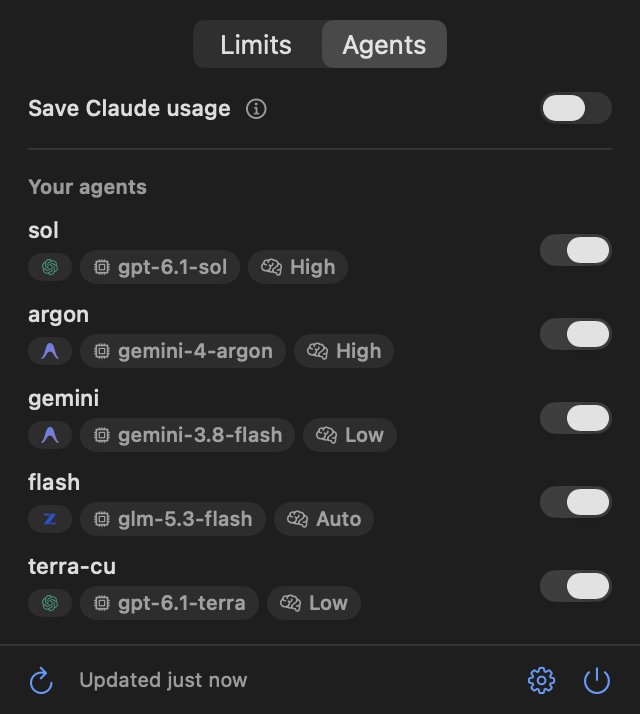
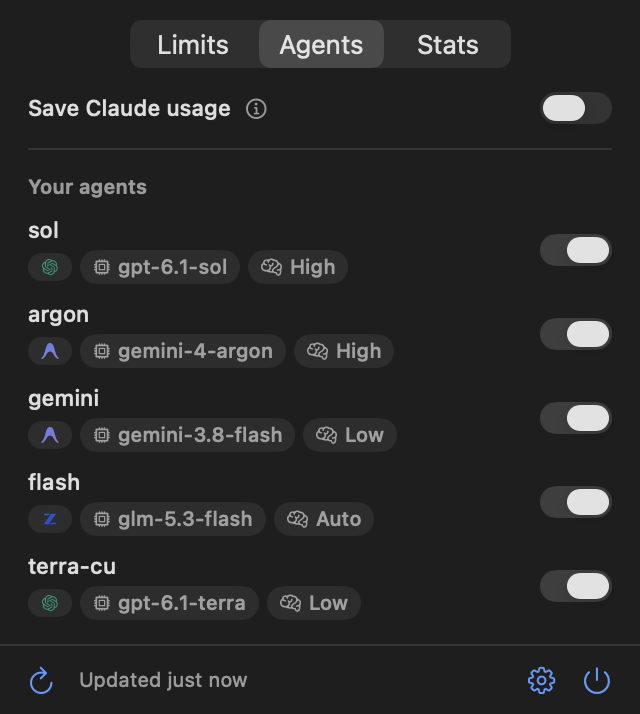
Show stats and a project in the launch video's glance scene
Fill each agent's fallback with its card, and spread main session use
across projects in the demo data so a project page shows both.

Changed region(s): [[0.25, 0.0308, 0.75, 0.0924]]

diff --git a/script/launch-video/launch.src.html b/script/launch-video/launch.src.html
@@ -95,7 +95,7 @@
   #cursor { position: absolute; left: 0; top: 0; transform-origin: 3px 2px; }
   #h6 { left: 200px; top: 440px; font-size: 64px; font-weight: 600; letter-spacing: -0.035em; line-height: 1.05; white-space: nowrap; }
   #h6 em { font-style: normal; color: var(--shallow); }
-  #wslot { position: relative; display: inline-block; height: 68px; overflow: hidden; vertical-align: top; }
+  #wslot { position: relative; display: inline-block; height: 74px; margin-bottom: -6px; overflow: hidden; vertical-align: top; }
   #wslot span { position: absolute; left: 0; top: 0; }
 
   #mark { left: 0; top: 0; width: 220px; height: 220px; transform-origin: 0 0; }
@@ -154,10 +154,10 @@
           <svg width="20" height="18" viewBox="0 0 20 18"><rect x="1" y="2" width="18" height="6" rx="3" fill="none" stroke="#fff" stroke-width="1.5"/><circle cx="15.5" cy="5" r="1.8" fill="#fff"/><rect x="1" y="10" width="18" height="6" rx="3" fill="none" stroke="#fff" stroke-width="1.5"/><circle cx="4.5" cy="13" r="1.8" fill="#fff"/></svg></div>
         <div>Wed 9:41</div>
       </div>
-      <div id="panel"><img id="pL" src="panel-limits.png" alt=""><img id="pA" src="panel-agents.png" alt=""><div id="ptogs"><div class="pname" style="top: 197px">reviewer</div><div class="pname" style="top: 272px">advisor</div><div class="pname" style="top: 348px">scout</div><div class="pname" style="top: 423px">builder</div><div class="pbadge" style="left: 36px; top: 457px; width: 20px; height: 20px">__CLAUDEB__</div><div class="pbadge" style="left: 106px; top: 455px; width: 126px; height: 24px; justify-content: flex-start">sonnet-5.5</div><div class="pname" style="top: 499px">operator</div><div class="ptog" style="top: 83px"><div></div></div><div class="ptog" style="top: 211px"><div></div></div><div class="ptog" style="top: 287px"><div></div></div><div class="ptog" style="top: 362px"><div></div></div><div class="ptog" style="top: 438px"><div></div></div><div class="ptog" style="top: 514px"><div></div></div></div></div>
+      <div id="panel"><img id="pL" src="panel-limits.png" alt=""><img id="pA" src="panel-agents.png" alt=""><img id="pS" src="panel-stats.png" alt=""><img id="pP" src="panel-project.png" alt=""><div id="ptogs"><div class="pname" style="top: 197px">reviewer</div><div class="pname" style="top: 272px">advisor</div><div class="pname" style="top: 348px">scout</div><div class="pname" style="top: 423px">builder</div><div class="pbadge" style="left: 36px; top: 457px; width: 20px; height: 20px">__CLAUDEB__</div><div class="pbadge" style="left: 106px; top: 455px; width: 126px; height: 24px; justify-content: flex-start">sonnet-5.5</div><div class="pname" style="top: 499px">operator</div><div class="ptog" style="top: 83px"><div></div></div><div class="ptog" style="top: 211px"><div></div></div><div class="ptog" style="top: 287px"><div></div></div><div class="ptog" style="top: 362px"><div></div></div><div class="ptog" style="top: 438px"><div></div></div><div class="ptog" style="top: 514px"><div></div></div></div></div>
       <svg id="cursor" width="30" height="42" viewBox="0 0 28 40"><path d="M3 2 L3 31 L10 24 L15 36 L20 34 L15 22 L25 22 Z" fill="#111" stroke="#fff" stroke-width="2" stroke-linejoin="round"/></svg>
     </div>
-    <div id="h6" class="abs">Every <span id="wslot"><span id="wL">limit</span><span id="wA">agent</span></span>,<br><em>one glance away.</em></div>
+    <div id="h6" class="abs">Every <span id="wslot"><span id="wL">limit</span><span id="wA">agent</span><span id="wS">stat</span><span id="wP">project</span></span>,<br><em>one glance away.</em></div>
 
     <svg id="mark" class="abs" viewBox="0 0 100 100">
       <defs>
@@ -234,7 +234,7 @@ const BEAT = 60 / 144, BAR = BEAT * 4, b = n => n * BAR;   // every cue sits on 
 /* ---------- Timeline (bars) ---------- */
 const OPEN = b(9);                    // the opening runs first; everything below counts from its end
 const HIT = b(.5);                    // the page closes, and the drop lands on the groove's first beat
-const ROWS = [HIT + b(1), HIT + b(1.4), HIT + b(1.8)], TIN = HIT + b(.75), S5 = HIT + b(3.5), FLIP = S5 + b(1), SWAP = FLIP + .35, S6 = S5 + b(2.5), CLICK = S6 + b(1.25), S7 = CLICK + b(1), LAND = S7 + b(.5);
+const ROWS = [HIT + b(1), HIT + b(1.4), HIT + b(1.8)], TIN = HIT + b(.75), S5 = HIT + b(3.5), FLIP = S5 + b(1), SWAP = FLIP + .35, S6 = S5 + b(2.5), CLICK = S6 + b(1), CLICK2 = CLICK + b(1), CLICK3 = CLICK2 + b(1), S7 = CLICK3 + b(1), LAND = S7 + b(.5);
 window.DURATION = OPEN + LAND + b(2.5);
 
 /* ---------- 1. The drop ---------- */
@@ -312,7 +312,7 @@ const AGENTS = [
 ];
 const DOC = { x: 140, y: 110, viewX: 40, viewY: 76 }, ADDED_Y = 316, ADDED_H = 228, LINE0 = 64, LINE_H = 46;
 const CARD = { w: 500, h: 256, y: 300, gap: 40, pad: 32, size: 56, top: 30 }, PILL = { h: 60, y: 30, pad: 20, size: 28, top: 16, gap: 28 };
-const SCROLL = 620, FB = [b(1.25), 0, b(1.6)], C = b(2.75), DOCIN = b(3), BOX = b(3.25), FLY = [b(3.5), b(3.75), b(4)], SC = b(5.75), AM = [b(6.25), b(6.4), b(6.55)], CALLS = [b(7.25), b(7.4)], OUT = b(8.57);
+const SCROLL = 620, FB = [b(.4), 0, b(1.6)], C = b(2.75), DOCIN = b(3), BOX = b(3.25), FLY = [b(3.5), b(3.75), b(4)], SC = b(5.75), AM = [b(6.25), b(6.4), b(6.55)], CALLS = [b(7.25), b(7.4)], OUT = b(8.57);
 const CW28 = CW / 2;
 $('cards').innerHTML = AGENTS.map((a, i) => `<div id="ac${i}" class="acard"><div id="acn${i}" class="acn"></div><div id="acd${i}" class="acd">${a.role}</div>
   <div id="acc${i}" class="acc">${a.models.map(([k, f, m, e], j) => `<div id="acr${i}${j}" class="mr" style="top: ${j * 44}px"><i>${j + 1}</i>${logoSVG(k, 20, f)}${m}<span>${e}</span></div>`).join('')}</div></div>`).join('');
@@ -329,7 +329,7 @@ function opening(t) {
   /* ===== Three agents are made, one by one; each folds into a tag above the page. ===== */
   const fold = io(seg(t, C, C + .6));
   AGENTS.forEach((a, i) => {
-    const at = b(.1 + i * .35), q = out(seg(t, at, at + .5)), card = $('ac' + i), f = io(seg(t, FLY[i], FLY[i] + .45));
+    const at = b(.1 + i * .6), q = out(seg(t, at, at + .5)), card = $('ac' + i), f = io(seg(t, FLY[i], FLY[i] + .45));
     const lineY = DOC.y + DOC.viewY + ADDED_Y + LINE0 + i * LINE_H + (LINE_H - PILL.size) / 2 - PILL.top;
     const lineX = DOC.x + DOC.viewX + 22 + 2 * CW28 - PILL.pad;
     const px = lerp(pillX(i), lineX, f), py = lerp(PILL.y, lineY, f) - Math.sin(f * Math.PI) * 16;
@@ -457,7 +457,7 @@ function reel(t) {
   vis($('actChipA'), 1 - seg(t, SWAP, SWAP + .2)); { const q = out(seg(t, SWAP + .15, SWAP + .5)); place($('actChipB'), seg(t, SWAP + .15, SWAP + .35), 0, (1 - q) * 10); }
   life($('cap6'), S5 + .4, S6 + .2);
 
-  /* ===== 5. The menu bar: first the limits, then a click on Agents. ===== */
+  /* ===== 5. The menu bar: first the limits, then a click on Agents, then on Stats. ===== */
   const mb = $('mbwrap'), mbIn = io(seg(t, S6, S6 + .6)), mbOut = io(seg(t, S7, S7 + .5));
   vis(mb, t > S6 ? 1 - seg(t, S7 + .2, S7 + .5) : 0);
   $('menubar').style.transform = `translateY(${(1 - mbIn) * -46 - mbOut * 46}px)`;
@@ -465,14 +465,15 @@ function reel(t) {
   const pn = $('panel'), po = out(seg(t, S6 + .5, S6 + 1.0)), pl = Math.min(1920 - 576 - 40, gx - 288);
   pn.style.left = pl + 'px'; pn.style.top = '56px';
   place(pn, seg(t, S6 + .5, S6 + .7) * (1 - mbOut), 0, (1 - po) * -14 - mbOut * 30, lerp(.97, 1, po));
-  const tx = seg(t, CLICK, CLICK + .12); vis($('pL'), 1 - tx); vis($('pA'), tx); vis($('ptogs'), tx);   // the switch is on: we turned it on
-  pn.style.height = lerp(994, 643, out(seg(t, CLICK, CLICK + .4))) + 'px';
-  const cur = $('cursor'), cm = io(seg(t, CLICK - 1.0, CLICK - .1)), co = seg(t, CLICK - 1.0, CLICK - .8) * (1 - seg(t, CLICK + .6, CLICK + .9));
-  const press = t > CLICK - .06 && t < CLICK + .08 ? .86 : 1;
-  vis(cur, co); cur.style.transform = `translate(${lerp(pl + 160, pl + 346 - 3, cm)}px, ${lerp(700, 56 + 40 - 2, cm)}px) scale(${press})`;
-  const wr = io(seg(t, CLICK, CLICK + .35));
-  $('wL').style.transform = `translateY(${-wr * 68}px)`; $('wA').style.transform = `translateY(${(1 - wr) * 68}px)`;
-  $('wslot').style.width = lerp($('wL').offsetWidth, $('wA').offsetWidth, wr) + 'px';
+  const tx = seg(t, CLICK, CLICK + .12), ts = seg(t, CLICK2, CLICK2 + .12), tp = seg(t, CLICK3, CLICK3 + .12);
+  vis($('pL'), 1 - tx); vis($('pA'), tx * (1 - ts)); vis($('ptogs'), tx * (1 - ts)); vis($('pS'), ts * (1 - tp)); vis($('pP'), tp);   // the switch is on: we turned it on
+  pn.style.height = lerp(lerp(lerp(994, 643, out(seg(t, CLICK, CLICK + .4))), 983, out(seg(t, CLICK2, CLICK2 + .4))), 898, out(seg(t, CLICK3, CLICK3 + .4))) + 'px';
+  const TABY = 56 + 40 - 2, cur = $('cursor'), cm = io(seg(t, CLICK - .9, CLICK - .1)), cn = io(seg(t, CLICK2 - .8, CLICK2 - .1)), cp = io(seg(t, CLICK3 - .8, CLICK3 - .1)), co = seg(t, CLICK - .9, CLICK - .7) * (1 - seg(t, CLICK3 + .4, CLICK3 + .7));
+  const press = (t > CLICK - .06 && t < CLICK + .08) || (t > CLICK2 - .06 && t < CLICK2 + .08) || (t > CLICK3 - .06 && t < CLICK3 + .08) ? .86 : 1;
+  vis(cur, co); cur.style.transform = `translate(${lerp(lerp(lerp(pl + 160, pl + 289, cm), pl + 403, cn), pl + 270, cp)}px, ${lerp(lerp(700, TABY, cm), 610, cp)}px) scale(${press})`;
+  const wr = io(seg(t, CLICK, CLICK + .35)), ws = io(seg(t, CLICK2, CLICK2 + .35)), wj = io(seg(t, CLICK3, CLICK3 + .35));
+  $('wL').style.transform = `translateY(${-wr * 84}px)`; $('wA').style.transform = `translateY(${(1 - wr - ws) * 84}px)`; $('wS').style.transform = `translateY(${(1 - ws - wj) * 84}px)`; $('wP').style.transform = `translateY(${(1 - wj) * 84}px)`;
+  $('wslot').style.width = lerp(lerp(lerp($('wL').offsetWidth, $('wA').offsetWidth, wr), $('wS').offsetWidth, ws), $('wP').offsetWidth, wj) + 'px';
   $('h6').style.left = (pl - 120 - H6W) + 'px'; life($('h6'), S6 + .4, S7 + .2);
 
   /* ===== 6. End: the drop leaves the menu bar and becomes the mark. ===== */

diff --git a/Sources/LastDrop/Stats/StatsModel.swift b/Sources/LastDrop/Stats/StatsModel.swift
@@ -117,7 +117,7 @@ final class StatsModel {
                 let wave = 1 + 0.7 * sin(Double(age) / 11 + Double(i))
                 let provider = i == 0 || i == 1 ? 0 : i == 2 ? 1 : 2
                 cube.rows.append(.init(hour: now - age, session: session, usd: Float(weight * wave * 14), tokens: Int64(weight * wave * 42e6),
-                                       model: UInt16(i), project: UInt16((Int(session) / 3 + i) % 4), account: UInt16(i), provider: UInt8(provider), agent: Int(session) % 3 != 0))
+                                       model: UInt16(i), project: UInt16((Int(session) / 3 + i) % 4), account: UInt16(i), provider: UInt8(provider), agent: age % 9 != 0))
             }
         }
         cube.sessionCount = Int(session) + 1

diff --git a/script/launch-video/music.py b/script/launch-video/music.py
@@ -1,4 +1,4 @@
-"""Score and sound design for the lastdrop launch film: 144 BPM, 20.75 bars, E phrygian.
+"""Score and sound design for the lastdrop launch film: 144 BPM, 21.5 bars, E phrygian.
 
 Everything is synthesized here: band-limited oscillators, a resonant state-variable filter,
 a ping-pong delay and a convolution reverb. Cue times match launch.src.html (b(n) = n bars)."""
@@ -8,7 +8,7 @@ import wave, sys
 
 SR = 48000
 OPEN_BARS = 9                                   # the opening; the reel's cues count from its end
-DUR = (OPEN_BARS + 11.75) * 4 * 60 / 144
+DUR = (OPEN_BARS + 13.5) * 4 * 60 / 144
 N = int(SR * DUR)
 BPM = 144
 BEAT = 60 / BPM
@@ -296,7 +296,7 @@ def post_sweep(y, f_hi, f_lo, tau):
 # ---------------------------------------------------------------- arrangement (cues match launch.src.html)
 O = b(OPEN_BARS)
 HIT = O + b(.5); GROW = HIT + .9; ROWS = [HIT + b(1), HIT + b(1.4), HIT + b(1.8)]; S5 = HIT + b(3.5); FLIP = S5 + b(1); SWAP = FLIP + .35
-S6 = S5 + b(2.5); CLICK = S6 + b(1.25); S7 = CLICK + b(1); LAND = S7 + b(.5)
+S6 = S5 + b(2.5); CLICK = S6 + b(1); CLICK2 = CLICK + b(1); CLICK3 = CLICK2 + b(1); S7 = CLICK3 + b(1); LAND = S7 + b(.5)
 E1, E2 = 28, 40
 drums = np.zeros(N); bassb = np.zeros(N); sfx = np.zeros(N); sfx_wet = np.zeros(N)
 pluckb = np.zeros((2, N)); mellowb = np.zeros((2, N)); padb = np.zeros((2, N))
@@ -367,11 +367,11 @@ for bar in range(1, OPEN_BARS + 1):
             i = at(t0); n = at(0.22); sc[i:i + n] = np.minimum(sc[i:i + n], 1 - 0.35 * np.exp(-np.arange(n) / SR * 13))
 
 # ---- sound design: each cue is a moment in the picture
-CARDS = [b(.1 + i * .35) for i in range(3)]; NAME_LEN = [8, 7, 7]; FB = [b(1.25), b(1.6)]; FOLD = b(2.75); BOX = b(3.25); FLY = [b(3.5), b(3.75), b(4)]; SCROLL = b(5.75); AM = [b(6.25), b(6.4), b(6.55)]; CALLS = [b(7.25), b(7.4)]
+CARDS = [b(.1 + i * .6) for i in range(3)]; NAME_LEN = [8, 7, 7]; FB = [b(.4), b(1.6)]; FOLD = b(2.75); BOX = b(3.25); FLY = [b(3.5), b(3.75), b(4)]; SCROLL = b(5.75); AM = [b(6.25), b(6.4), b(6.55)]; CALLS = [b(7.25), b(7.4)]
 for c, l, m in zip(CARDS, NAME_LEN, (76, 79, 83)):                                           # each agent is typed in
     for k in range(l): place(sfx, tick(1.1 + 0.03 * k, 0.3), c + .1 + k * .05)
     place(sfx_wet, tink(m, 0.5, 0.12), c + .3)
-for f, m in zip(FB, (83, 86)): place(sfx, tick(1.0, 0.35), f); place(sfx_wet, tink(m, 0.5, 0.16), f)    # a fallback joins the list
+for f, m in zip(FB, (79, 86)): place(sfx, tick(1.0, 0.35), f); place(sfx_wet, tink(m, 0.5, 0.16), f)    # a fallback joins the list
 place(sfx, whoosh(0.6, 3000, 500, 0.16), FOLD)                                               # the cards fold into tags
 place(sfx, whoosh(0.6, 500, 2600, 0.12), BOX)                                                # the blue block opens
 for f, m in zip(FLY, (76, 79, 83)):                                                          # each tag lands on its line
@@ -401,8 +401,9 @@ place(sfx, riser(BAR, 0.55), S6 - BAR)
 place(sfx, boom(1.4), S6, 0.5)
 place(sfx, whoosh(0.7, 5000, 400, 0.24), S6)                                                 # everything folds into the menu bar
 place(sfx, tick(0.7, 0.7), S6 + .5); place(sfx, whoosh(0.45, 900, 3500, 0.15), S6 + .5)      # the panel opens
-place(sfx, tick(0.7, 0.8), CLICK - 0.02)                                                     # click on Agents
-for k in range(5): place(sfx, tick(1.25 - k * 0.05, 0.28), CLICK + (1 - (1 - k / 5) ** 1.7) * 0.32)
+for c in (CLICK, CLICK2, CLICK3):                                                              # click on Agents, Stats, then a project
+    place(sfx, tick(0.7, 0.8), c - 0.02)
+    for k in range(5): place(sfx, tick(1.25 - k * 0.05, 0.28), c + (1 - (1 - k / 5) ** 1.7) * 0.32)
 place(sfx, whoosh(BAR / 2 + 0.2, 300, 3500, 0.22, 0.7), S7)                                  # the drop leaves the menu bar
 place(sfx, plip(560, 1900, 0.12, 1.0), LAND); place(sfx_wet, plip(560, 1900, 0.12, 1.0), LAND)
 place(sfx, boom(3.0), LAND, 0.8)

diff --git a/script/launch-video/README.md b/script/launch-video/README.md
@@ -1,6 +1,6 @@
 # Launch video
 
-The source of the launch film: 34.6 s at 1920×1080, 60 fps, cut to a 144 BPM score. It opens on what Claude sees, then runs the agents across your plans.
+The source of the launch film: 37.5 s at 1920×1080, 60 fps, cut to a 144 BPM score. It opens on what Claude sees, then runs the agents across your plans.
 
 ```sh
 python3 build.py launch.src.html launch.html                                  # inline the logos
